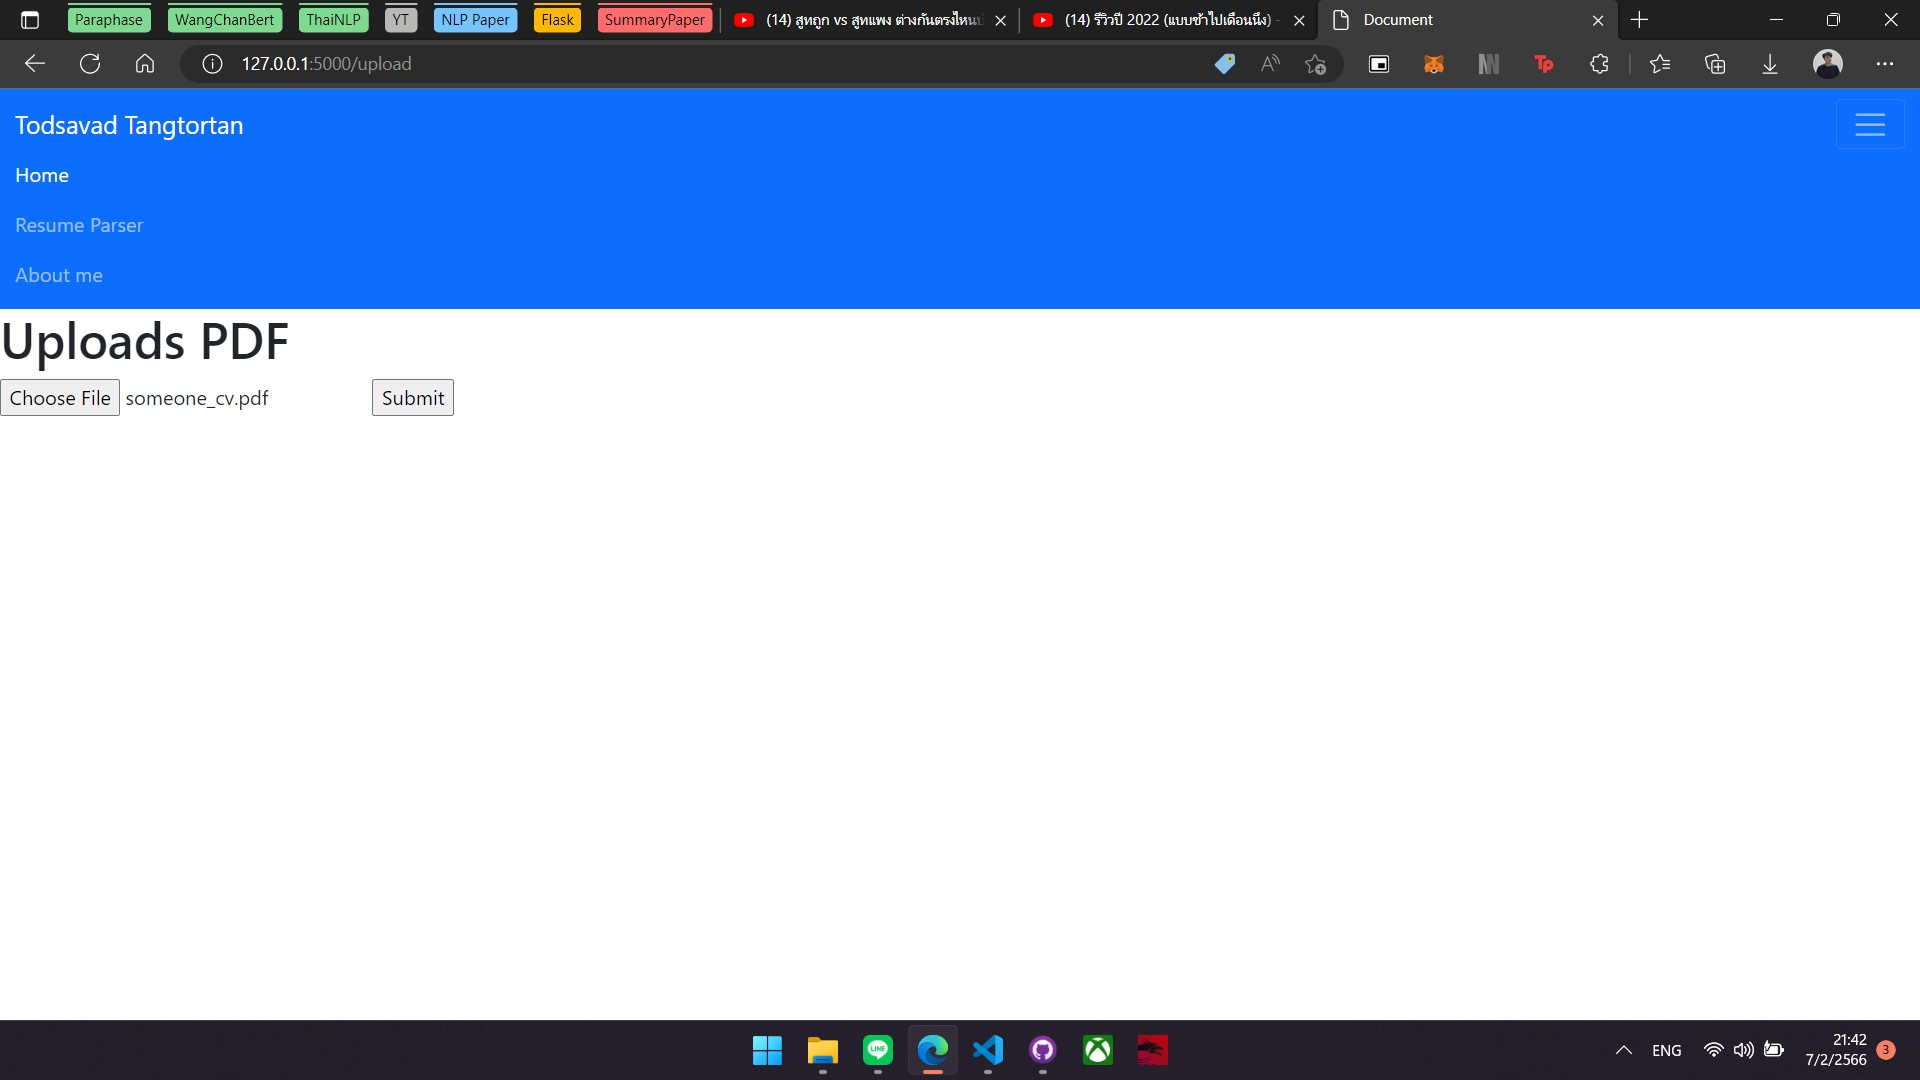
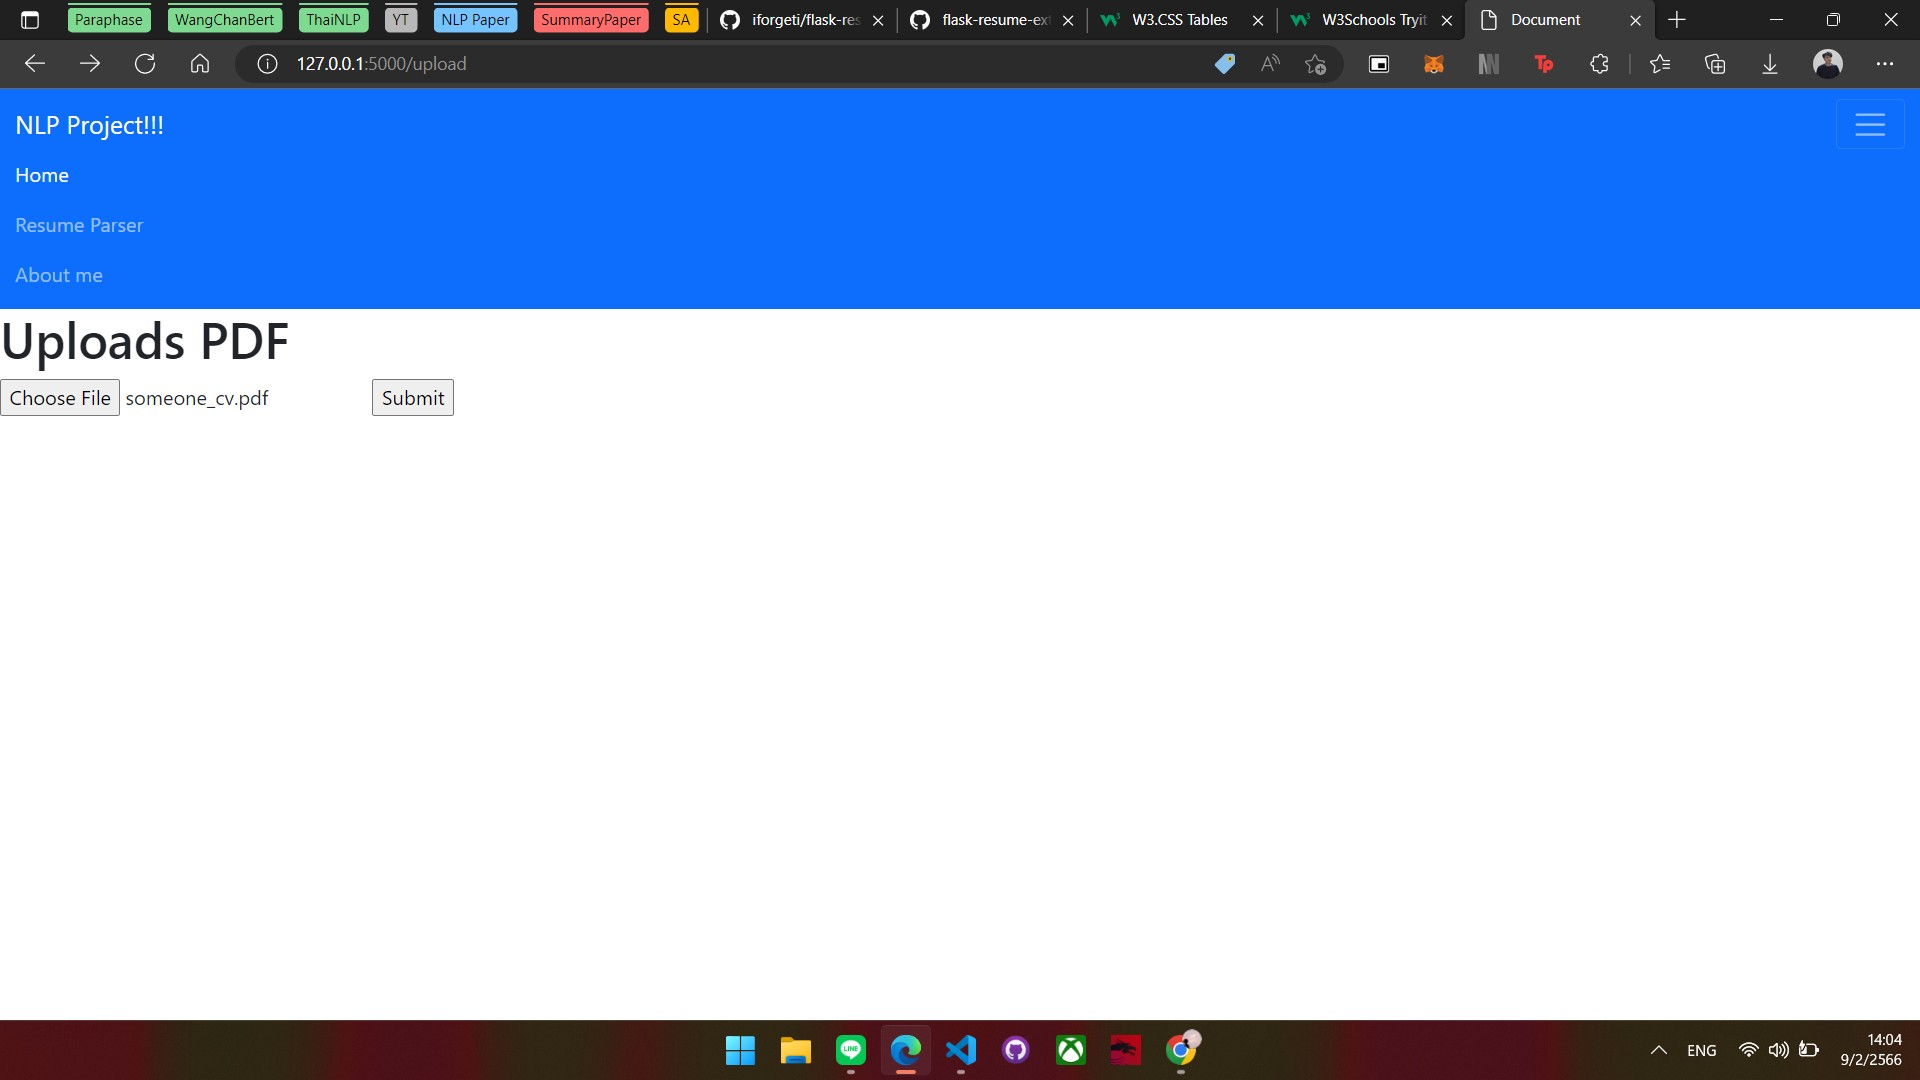
update

diff --git a/Course/Natural Language Understanding/Assignment/04 - Resume Parser using Spacy/templates/result.html b/Course/Natural Language Understanding/Assignment/04 - Resume Parser using Spacy/templates/result.html
@@ -1,31 +1,36 @@
 {% extends "layout.html" %}
 {% block content %}
-    <div class="container">
-        <table>
-            <tr>
-              <!-- <th>Skill</th>
-              <th>Education</th> -->
-            </tr>
-            <tr>
+    <html>
+    <title>W3.CSS</title>
+    <meta name="viewport" content="width=device-width, initial-scale=1">
+    <link rel="stylesheet" href="https://www.w3schools.com/w3css/4/w3.css">
+    <body>
+    
+        <div class="w3-container">
+            <table class="w3-table-all">
+            <!-- <h1>Skills</h1> -->
+                <tr class="w3-blue">
+                    <th>Skills</th>
+                </tr>
+                {% for skill in skills %}
+                <tr>
+                    <td>{{skill}}</td>
+                </tr>
+                {% endfor %}
+            </table>
 
-            </tr>
-            <tr>
-
-            </tr>
-        </table>
-    <h1>Skill</h1>
-    </br>
-        {% for skill in skills %}
-            <p>{{skill}}</p>
-        {% endfor %}
-        
-    <h1>Education</h1>
-    </br>
-        {% for education in educations %}
-            <p>{{education}}</p>
-        {% endfor %}
-
-        <!-- Skill : {{skills}}
-        Education :{{educations}} -->
-    </div>
+            <!-- <h1>Educations</h1> -->
+            <table class="w3-table-all">
+                <tr class="w3-blue">
+                    <th>Educations</th>
+                </tr>
+                {% for education in educations %}
+                <tr>
+                    <td>{{education}}</td>
+                </tr>
+                {% endfor %}
+            </table>
+        </div>
+    </body>
+    </html>
 {% endblock %}

diff --git a/Course/Natural Language Understanding/Assignment/04 - Resume Parser using Spacy/templates/layout.html b/Course/Natural Language Understanding/Assignment/04 - Resume Parser using Spacy/templates/layout.html
@@ -11,7 +11,7 @@
 <body>
     <nav class="navbar navbar-dark bg-primary">
         <div class="container-fluid">
-          <a class="navbar-brand" href="/">Todsavad Tangtortan</a>
+          <a class="navbar-brand" href="/">NLP Project!!!</a>
           <button class="navbar-toggler" type="button" data-bs-toggle="collapse" data-bs-target="#navbarNavAltMarkup" aria-controls="navbarNavAltMarkup" aria-expanded="false" aria-label="Toggle navigation">
             <span class="navbar-toggler-icon"></span>
           </button>
